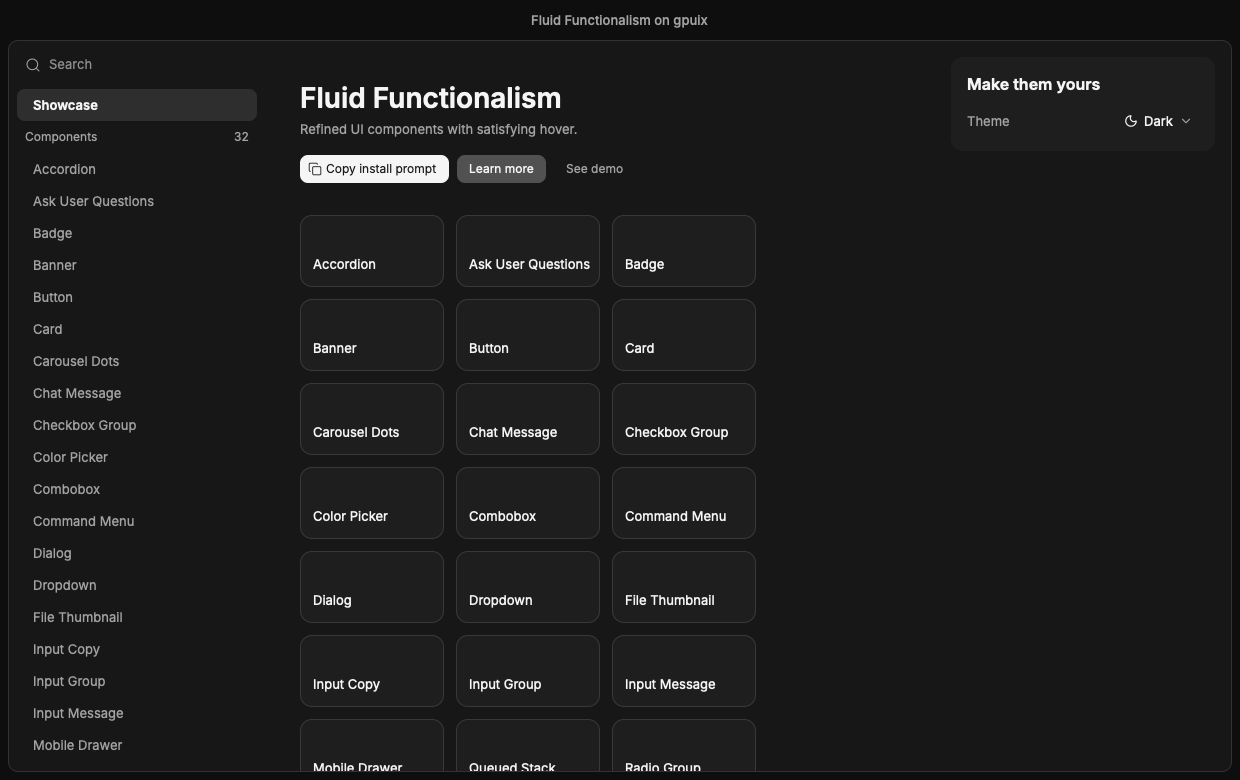
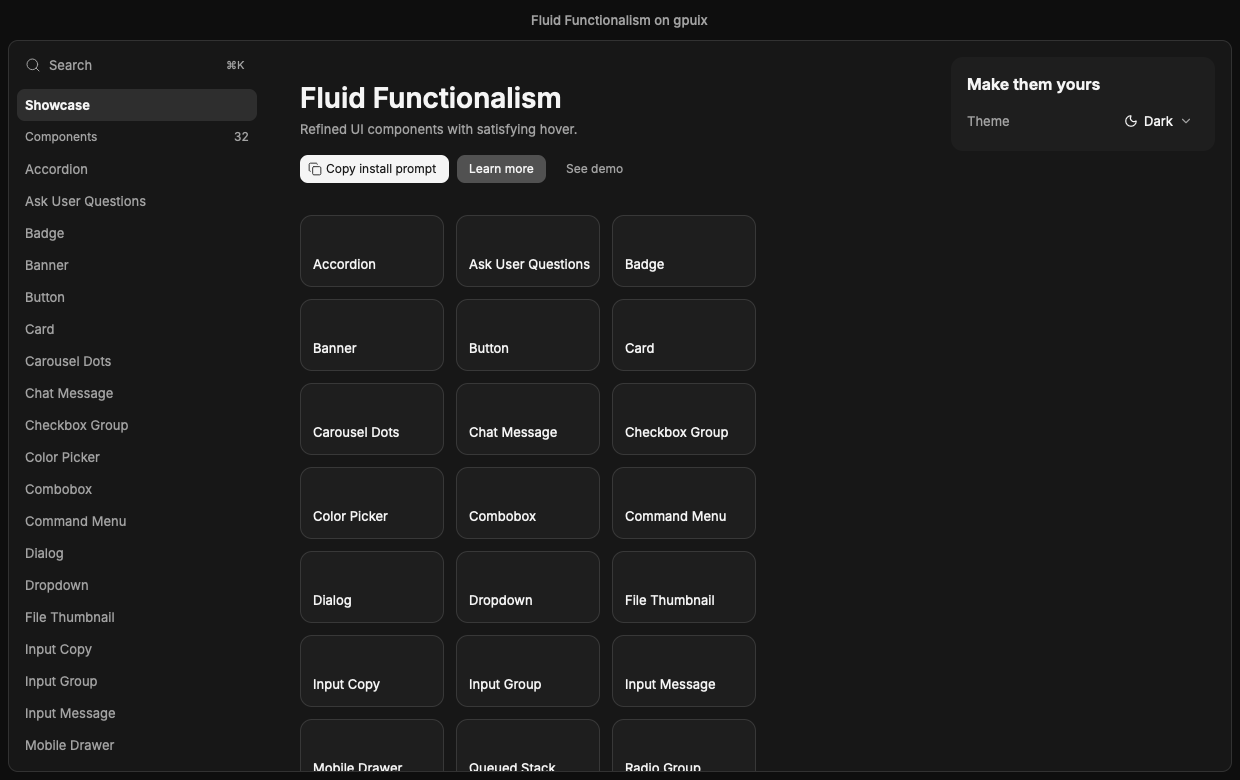
Home hero: wire the three buttons; site menu: match Mod+K on the typed key only
- Copy install prompt writes the source's starter prompt for the port's settings and shows a check for 2 s.
- Learn more and See demo open the source's /docs and /demo in the default browser: those pages are not ported.
- isModK drops the code fallback: gpuix derives code from key, so it never named a different key. The Dvorak report does not reproduce; the non-Latin layout case off macOS is a gpuix gap, recorded in drift/site.md.

diff --git a/src/lib/starter-prompt.ts b/src/lib/starter-prompt.ts
@@ -1,0 +1,46 @@
+import type { ThemeChoice } from "./theme";
+
+export const SITE_URL = "https://www.fluidfunctionalism.com";
+
+const OVERWRITE_NOTE =
+	"--overwrite replaces same-named stock shadcn files (button.tsx, dialog.tsx, ...) with this library's versions. Without it the CLI prompts per existing file and exits in a non-interactive shell before any component is written.";
+
+const SKILL_LINE =
+	"For the design details behind it (exact behaviors and values), add the Fluid Functionalism skill: npx skills add mickadesign/fluid-functionalism";
+
+/**
+ * The slug the source's `starterSlug` gives the port's settings: Base UI,
+ * rounded, default size, lucide icons (the source's default set is Untitled UI),
+ * so the icons and a non-system theme are what differ.
+ */
+function starterSlug(theme: ThemeChoice): string {
+	return theme === "system" ? "lucide" : `lucide-${theme}`;
+}
+
+/** The home page's "Copy install prompt" text: the source's `buildStarterPrompt` for the port's settings. */
+export function buildStarterPrompt(theme: ThemeChoice): string {
+	const slug = starterSlug(theme);
+	const settings = `Base UI, rounded, default size, Lucide icons, ${theme} theme`;
+	return [
+		`Start a new React app with Fluid Functionalism: every component installed, every system wired, set to ${settings}.`,
+		"",
+		"Run (shadcn CLI, Next.js template, asks nothing):",
+		`npx shadcn@latest create -n my-app -t next ${SITE_URL}/r/starter/${slug}.json`,
+		"It creates the app in ./my-app; use the project's name instead. Then run npm run dev in it.",
+		"",
+		"What it sets up:",
+		"- Every component in components/ui (Base UI flavor), with the libs and hooks they share in lib and hooks.",
+		"- app/layout.tsx loads Inter with its opsz axis, so labels change weight without changing width.",
+		`- components/providers.tsx holds the settings: next-themes (${theme} by default, D flips light and dark) and FluidProvider (rounded corners, default size step, Lucide icons, reduced motion that follows the OS). Change a value there and every component follows.`,
+		"- app/page.tsx: an app shell (sidebar and topbar) around a home screen to replace.",
+		"- components.json registers @fluid, so a later add is short: npx shadcn@latest add @fluid/base/<name> (drop base/ for components with one flavor).",
+		"",
+		"Already in an app with components.json? Install the same components and settings into it instead:",
+		`npx shadcn@latest add ${SITE_URL}/r/setup/${slug}.json --overwrite`,
+		OVERWRITE_NOTE,
+		`Then wrap the root layout's children in <FluidRoot> from components/fluid-root.tsx (inside the theme provider, if any), load Inter with axes: ["opsz"], and default the theme to ${theme}.`,
+		"",
+		SKILL_LINE,
+		`Docs: ${SITE_URL}/docs`,
+	].join("\n");
+}

diff --git a/src/app.tsx b/src/app.tsx
@@ -1,4 +1,5 @@
 import {
+	clipboard,
 	createAppearance,
 	type HostElement,
 	useGpuixRequired,
@@ -9,6 +10,7 @@ import {
 	For,
 	type JSX,
 	Match,
+	onCleanup,
 	Show,
 	Switch,
 } from "solid-js";
@@ -25,19 +27,21 @@ import {
 import { AppFrame, PANEL_INNER_RADIUS } from "./lib/app-frame";
 import type { Demo } from "./lib/demo";
 import { PageScrollerContext } from "./lib/demo-kit";
+import { openUrl } from "./lib/open-url";
 import {
 	createSiteMenu,
 	SITE_MENU_SHORTCUT,
 	SiteCommandMenu,
 } from "./lib/site-command-menu";
+import { buildStarterPrompt, SITE_URL } from "./lib/starter-prompt";
 import {
 	bindSystemScheme,
 	color,
-	setThemeChoice,
-	type ThemeChoice,
-	THEMES,
-	themeChoice,
 	type as scale,
+	setThemeChoice,
+	THEMES,
+	type ThemeChoice,
+	themeChoice,
 	weight,
 } from "./lib/theme";
 
@@ -107,7 +111,18 @@ function AppSidebar(props: {
 	);
 }
 
+const COPIED_MS = 2000;
+
 function Hero() {
+	const [copied, setCopied] = createSignal(false);
+	let resetTimer: ReturnType<typeof setTimeout> | undefined;
+	onCleanup(() => clearTimeout(resetTimer));
+	const copyPrompt = async () => {
+		await clipboard.writeText(buildStarterPrompt(themeChoice()));
+		setCopied(true);
+		clearTimeout(resetTimer);
+		resetTimer = setTimeout(() => setCopied(false), COPIED_MS);
+	};
 	return (
 		<div style={{ display: "flex", flexDirection: "column", gap: 4 }}>
 			<Heading>Fluid Functionalism</Heading>
@@ -123,13 +138,28 @@ function Hero() {
 					paddingTop: 12,
 				}}
 			>
-				<Button size="compact" leadingIcon="copy">
+				<Button
+					testId="hero-copy"
+					size="compact"
+					leadingIcon={copied() ? "check" : "copy"}
+					onClick={copyPrompt}
+				>
 					Copy install prompt
 				</Button>
-				<Button size="compact" variant="secondary">
+				<Button
+					testId="hero-learn-more"
+					size="compact"
+					variant="secondary"
+					onClick={() => openUrl(`${SITE_URL}/docs`)}
+				>
 					Learn more
 				</Button>
-				<Button size="compact" variant="ghost">
+				<Button
+					testId="hero-see-demo"
+					size="compact"
+					variant="ghost"
+					onClick={() => openUrl(`${SITE_URL}/demo`)}
+				>
 					See demo
 				</Button>
 			</div>

diff --git a/src/lib/site-command-menu.tsx b/src/lib/site-command-menu.tsx
@@ -1,4 +1,4 @@
-import { type DomEvent, window as appWindow } from "@gpuix/solid";
+import { window as appWindow, type DomEvent } from "@gpuix/solid";
 import { createMemo, createSignal, onCleanup } from "solid-js";
 import {
 	CommandMenu,
@@ -32,11 +32,17 @@ export type SiteMenu = {
 	setOpen: (open: boolean) => void;
 };
 
-/** FF's `matchesShortcut` for "mod+k": the key, or its physical key when Alt or a non-Latin layout changes the character; Meta or Ctrl, no Alt, Shift free. */
+/**
+ * FF's `matchesShortcut` for "mod+k": Meta or Ctrl, no Alt, Shift free. The web
+ * falls back to the physical key (`code`) when `key` is not a Latin letter or Alt
+ * is held. gpuix derives `code` from `key`, so it never names a different key and
+ * the fallback adds nothing: on Dvorak the key that types "t" reports "t", and on
+ * macOS a non-Latin layout reports its Cmd layout's letter.
+ */
 function isModK(event: DomEvent): boolean {
 	if (event.altKey === true) return false;
 	if (event.metaKey !== true && event.ctrlKey !== true) return false;
-	return event.key?.toLowerCase() === "k" || event.code === "KeyK";
+	return event.key?.toLowerCase() === "k";
 }
 
 /** The menu's open state plus the window-wide Mod+K that toggles it. Call it once, inside the app root: the listener leaves with that owner. */

diff --git a/src/lib/open-url.ts b/src/lib/open-url.ts
@@ -1,0 +1,7 @@
+/** gpuix has no way to open a link, so the system command does. Rejects when the command fails. */
+export async function openUrl(url: string) {
+	const command = process.platform === "darwin" ? "open" : "xdg-open";
+	const child = Bun.spawn([command, url]);
+	const code = await child.exited;
+	if (code !== 0) throw new Error(`${command} exited with ${code}`);
+}

diff --git a/drift/site.md b/drift/site.md
@@ -237,22 +237,31 @@ One entry per place the port looks or behaves differently from the source, whate
 - **Fidelity:** dropped (11 rows); approximated (label).
 - **Components it hits:** just the site menu.
 
-## Site menu: dialog title and description, ⌘K matching
+## Site menu: dialog title and description, shortcut routing
 
-- **Cause:** `not ported yet` (title / description, shortcut routing); the key match is a bug.
-- **Original:** `CommandMenuDialog` takes `title="Site menu"` and `description="Jump to a page or change a setting."` as the dialog's accessible name, and binds `shortcut="mod+k"` itself; `matchesShortcut` reads the physical key only when Alt is held or `key` is not a Latin letter or digit, so on Dvorak the key that types "t" is never taken for K (`app/components/site-command-menu.tsx:385-390`, `registry/default/command-menu.tsx:195-230, 1425-1540`).
-- **Port:** the dialog has no title or description props (`src/components/command-menu.tsx:1253-1257`). A separate window listener toggles the menu (`src/lib/site-command-menu.tsx:43-54`). Its doc comment says the physical key counts only "when Alt or a non-Latin layout changes the character", but `isModK` returns `key === "k" || code === "KeyK"` unconditionally (`:35-40`), so on a layout where the K position types another letter, Mod plus that key opens the menu.
+- **Cause:** `not ported yet`.
+- **Original:** `CommandMenuDialog` takes `title="Site menu"` and `description="Jump to a page or change a setting."` as the dialog's accessible name, and binds `shortcut="mod+k"` itself (`app/components/site-command-menu.tsx:385-390`, `registry/default/command-menu.tsx:1425-1540`).
+- **Port:** the dialog has no title or description props (`src/components/command-menu.tsx:1290-1294`). A separate window listener toggles the menu (`src/lib/site-command-menu.tsx:49-60`); `isModK` matches Meta or Ctrl, no Alt, on `event.key` alone (`:42-46`). On Dvorak the key that types "t" does not open it: gpuix derives `code` from `key`, so there is no physical K to match (`scripts/check-command-menu.tsx` checks ⌘T and ⌘⌥K stay closed and ⌘K toggles; the layout itself needs a live check).
 - **Workaround:** none.
-- **Fidelity:** exact on QWERTY; wrong on other layouts (bug).
+- **Fidelity:** exact on macOS.
 - **Components it hits:** just the site menu.
 
+## Site menu: ⌘K has no physical-key fallback for non-Latin layouts off macOS
+
+- **Cause:** `gpuix gap`.
+- **Original:** `matchesShortcut` reads the physical key (`code`) when `key` is not a Latin letter or digit, so Ctrl+K opens the menu on a Cyrillic or Greek layout (`registry/default/command-menu.tsx:195-230`).
+- **Port:** `isModK` reads `key` only (`src/lib/site-command-menu.tsx:42-46`).
+- **gpuix lacks:** a physical key. `code` is "derived from GPUI's `key`, which is layout-dependent on every platform", so a Cyrillic key reports `code` `""` (`~/code/fdarian/gpuix/packages/native/src/events/key_names.rs:9-12`, `:138-160`). On macOS this does not bite: GPUI reports the layout's Cmd letter, so ⌘K works on Cyrillic, Armenian and Dvorak-QWERTY (`~/code/fdarian/gpuix/zed/crates/gpui_macos/src/events.rs:425-439`). On Windows and Linux, Ctrl plus a non-Latin letter does not match. Not run there.
+- **Workaround:** none; the sidebar's Search row opens the menu.
+- **Fidelity:** exact on macOS; dropped for non-Latin layouts on Windows and Linux.
+- **Components it hits:** just the site menu.
 ## Pages not ported: home bento grid and the home hero
 
 - **Cause:** `not ported yet`. The bento grid is previews of the live components; the port's Showcase is a card per demo.
 - **Original:** `/` is the hero (h1 bold, tagline, a "Copy install prompt" button that copies the starter prompt with the visitor's settings, "Learn more" to `/docs`, "See demo" to `/demo`, and prev / next arrows) over a `BentoGrid` of one `BentoCard` per component, sized large / medium / small, each with a live preview from `previewMap` and a `PlaygroundMenu` pen (`app/page.tsx:12-62`, `app/components/bento-grid.tsx`, `bento-card.tsx`, `bento-previews.tsx` (916 lines), `starter-install.tsx`).
-- **Port:** the hero has the same three buttons but none has an `onClick`, so they do nothing (`src/app.tsx:110-139`); no arrows. Below it 144x72 text-only cards, one per demo, that open the page on click (`src/app.tsx:141-185`).
+- **Port:** the hero has the same three buttons. "Copy install prompt" writes the source's starter prompt for the port's settings (Base UI, rounded, default size, Lucide icons, the current theme; `src/lib/starter-prompt.ts`) and its icon turns into a check for 2 s, without the crossfade (`src/app.tsx:116-130`). The source's "Learn more" and "See demo" go to `/docs` and `/demo`, which are not ported, so they open those pages of fluidfunctionalism.com in the default browser through `open` / `xdg-open` (`src/lib/open-url.ts`; gpuix has no link opener). No arrows. Below it 144x72 text-only cards, one per demo, that open the page on click (`src/app.tsx:141-185`).
 - **Workaround:** none.
-- **Fidelity:** dropped (previews, sizes, playground menus); the dead buttons are a defect.
+- **Fidelity:** dropped (previews, sizes, playground menus).
 - **Components it hits:** just the home page.
 
 ## Pages not ported: Introduction and the system pages
